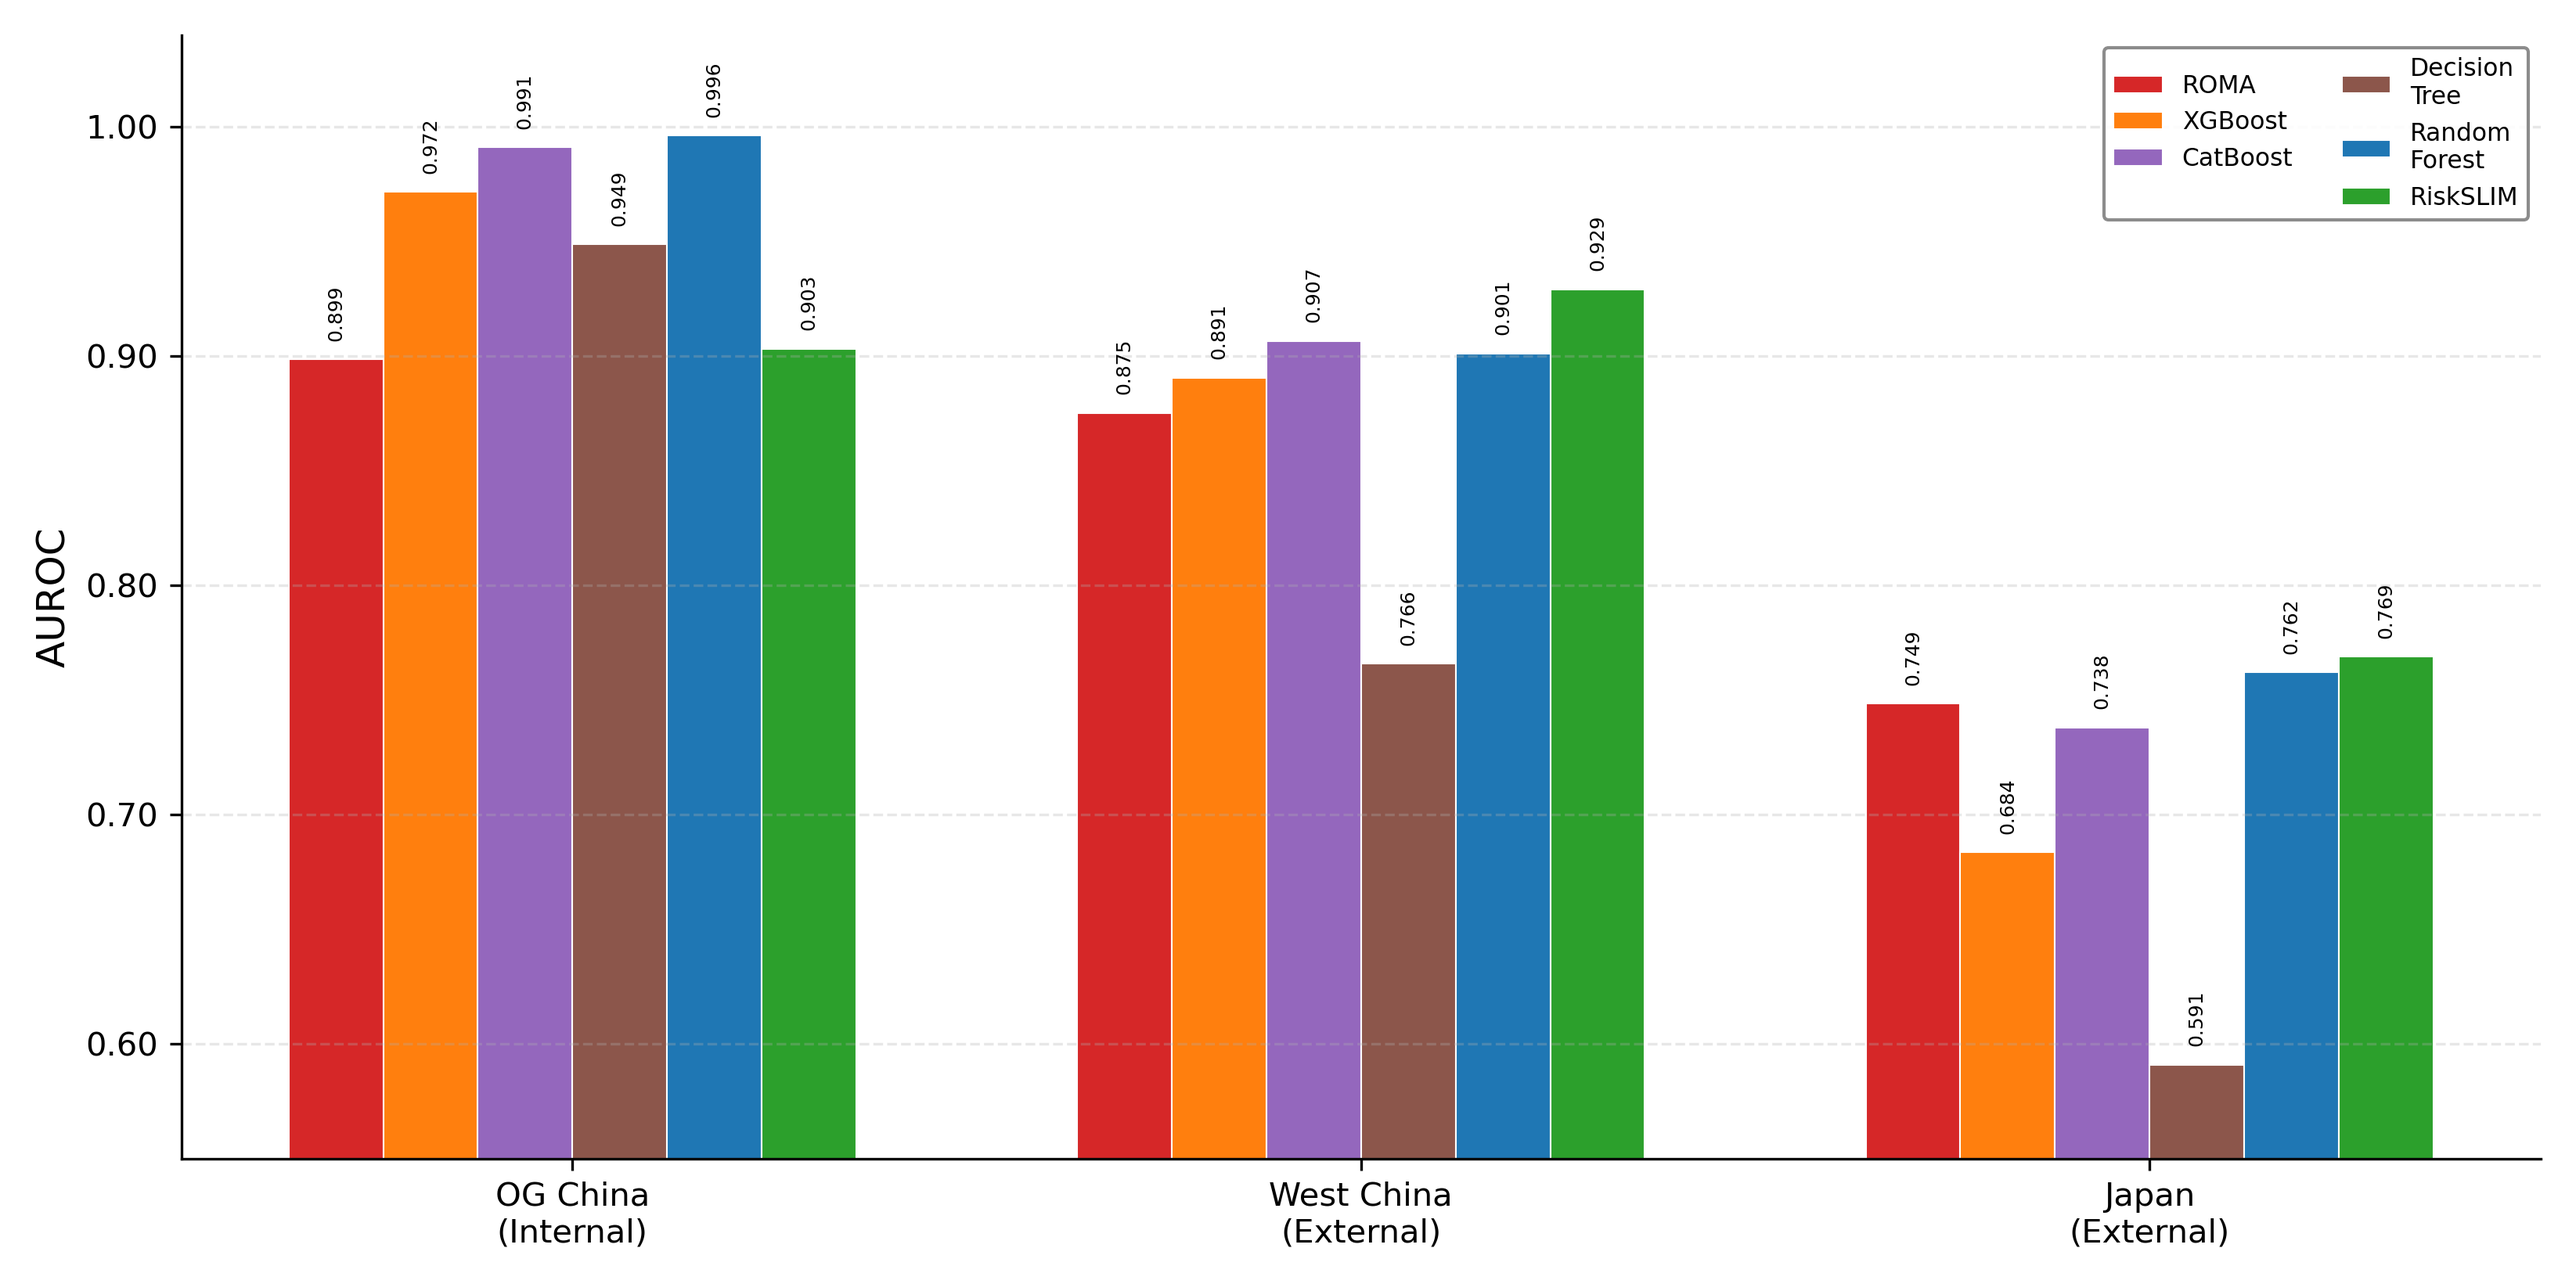
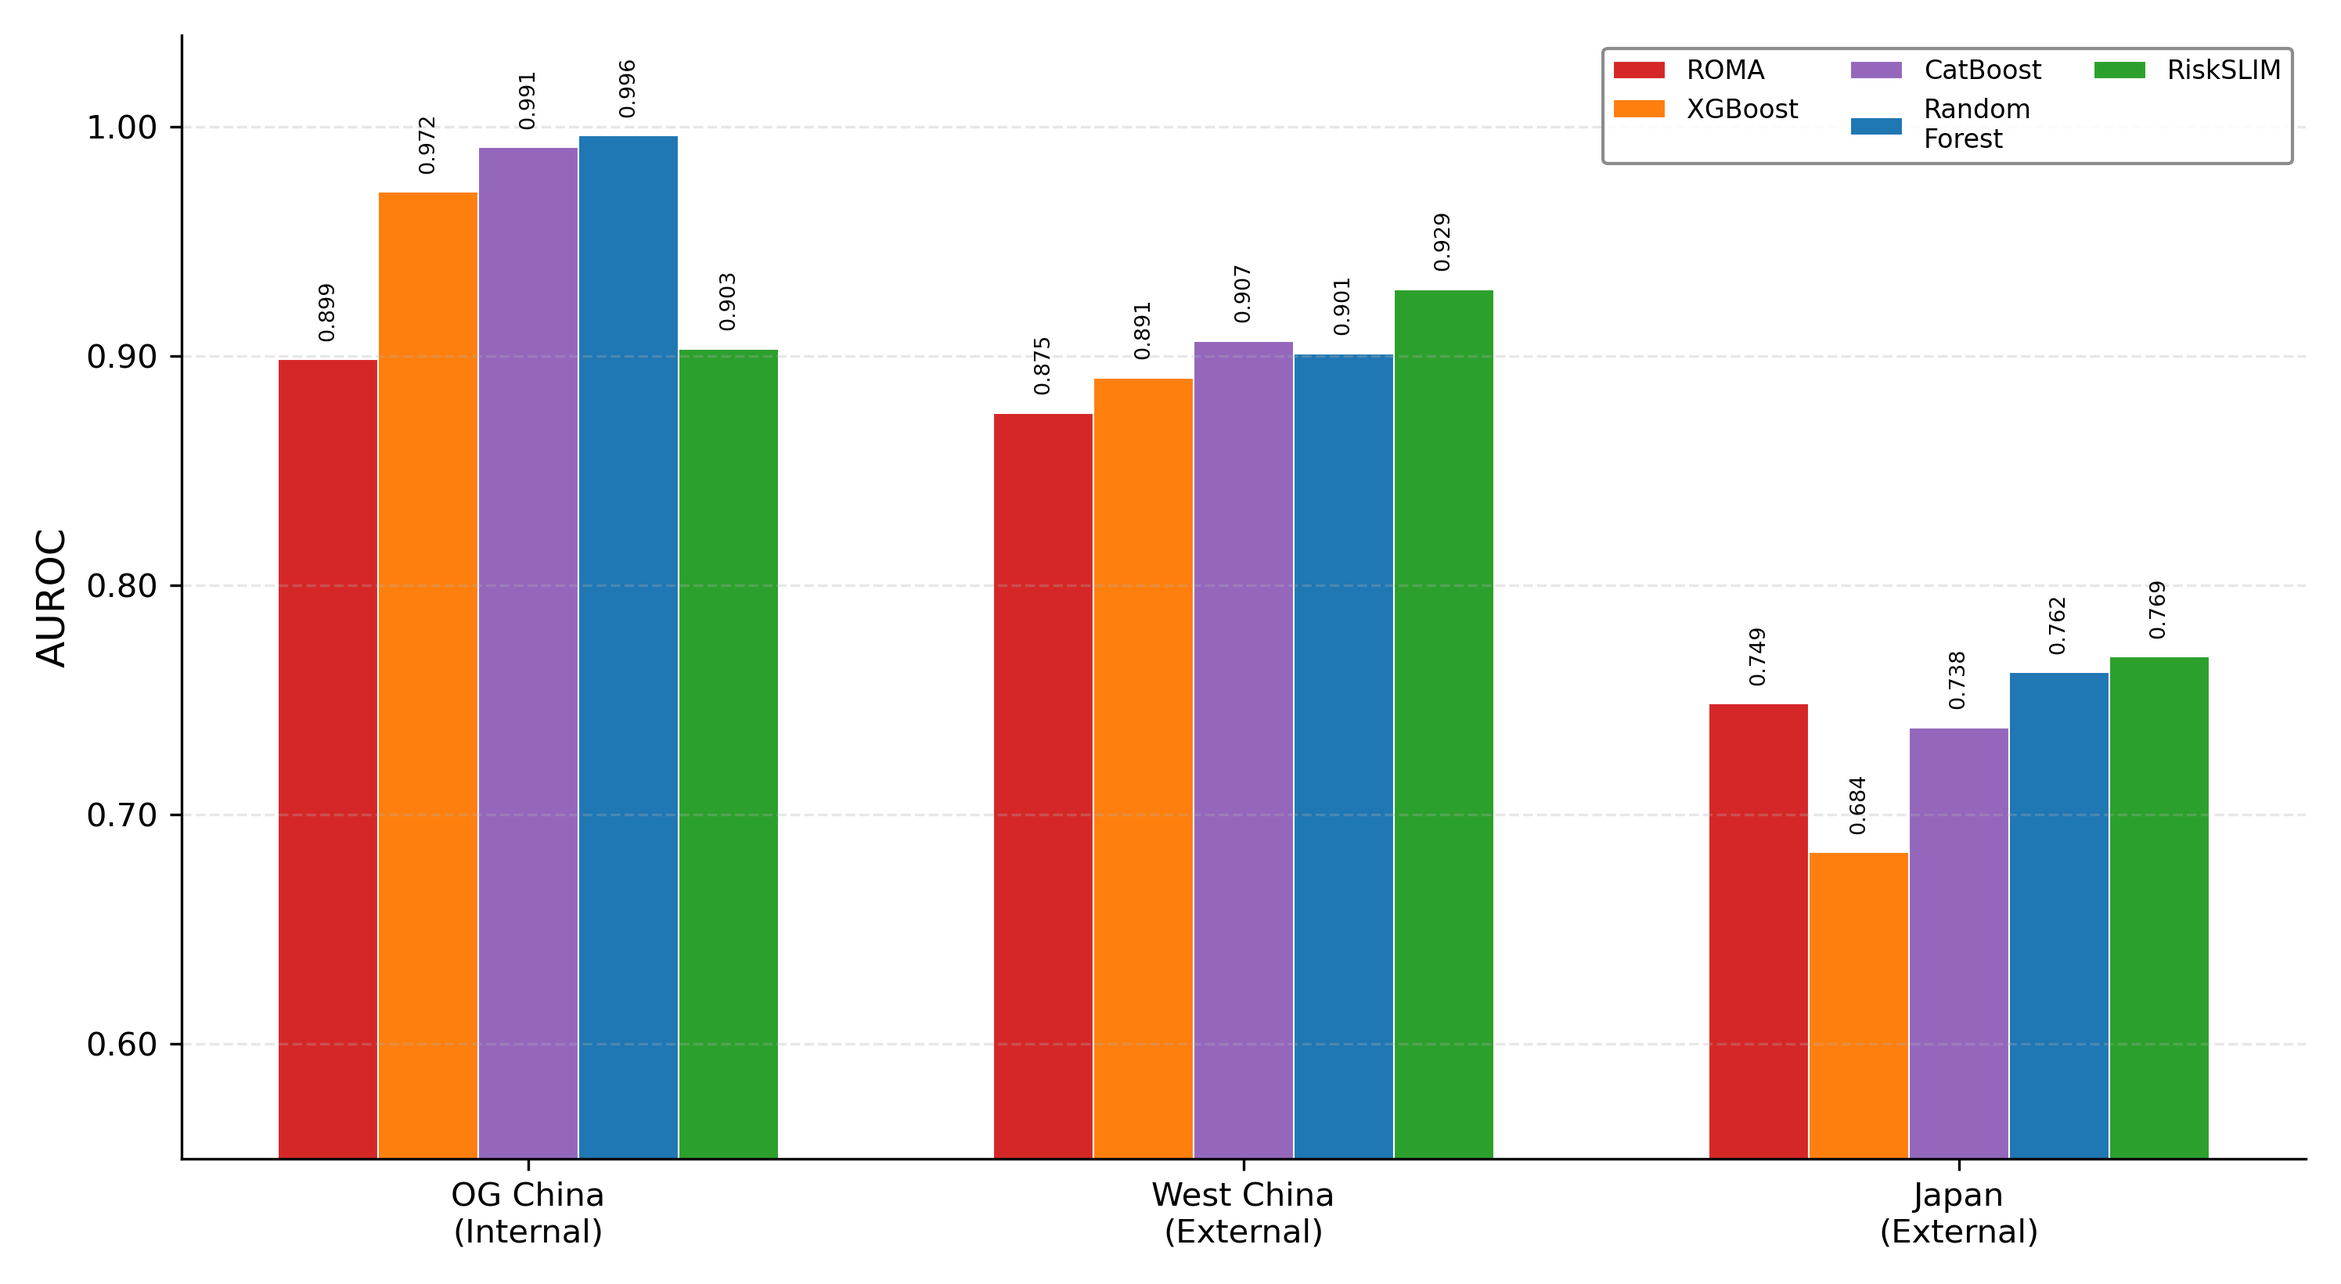
Remove Decision Tree from benchmark; regenerate all 6 figures with 5-model comparison

diff --git a/src/run_monte_carlo_benchmarks.py b/src/run_monte_carlo_benchmarks.py
@@ -7,7 +7,6 @@ import numpy as np
 from sklearn.metrics import roc_auc_score
 from xgboost import XGBClassifier
 from catboost import CatBoostClassifier
-from sklearn.tree import DecisionTreeClassifier
 from sklearn.ensemble import RandomForestClassifier
 from sklearn.linear_model import LogisticRegression
 from sklearn.preprocessing import KBinsDiscretizer, QuantileTransformer, StandardScaler
@@ -140,9 +139,6 @@ fixed_cat = CatBoostClassifier(n_estimators=500, depth=10, learning_rate=0.3,
                                random_seed=42, verbose=0)
 fixed_cat.fit(X_train_norm, y_train)
 
-fixed_dt = DecisionTreeClassifier(max_depth=10, random_state=42)
-fixed_dt.fit(X_train_norm, y_train)
-
 fixed_rf = RandomForestClassifier(n_estimators=500, max_depth=10, random_state=42)
 fixed_rf.fit(X_train_norm, y_train)
 
@@ -180,7 +176,7 @@ for cohort_name, path in cohort_files.items():
         continue
 
     for noise in noise_levels:
-        roma_aucs, xgb_aucs, cat_aucs, dt_aucs, rf_aucs, rslim_aucs = [], [], [], [], [], []
+        roma_aucs, xgb_aucs, cat_aucs, rf_aucs, rslim_aucs = [], [], [], [], []
 
         for _ in range(N_PERTURBATIONS):
             noise_mat = np.random.normal(1.0, noise, (len(X_clean), 2))
@@ -193,21 +189,18 @@ for cohort_name, path in cohort_files.items():
             roma_score = compute_roma(X_noisy)
             xgb_score  = fixed_xgb.predict_proba(X_noisy_norm)[:, 1]
             cat_score  = fixed_cat.predict_proba(X_noisy_norm)[:, 1]
-            dt_score   = fixed_dt.predict_proba(X_noisy_norm)[:, 1]
             rf_score   = fixed_rf.predict_proba(X_noisy_norm)[:, 1]
             rslim_score = fixed_rslim.predict_score(X_noisy)
 
             roma_auc = roc_auc_score(y_eval, roma_score)
             xgb_auc  = roc_auc_score(y_eval, xgb_score)
             cat_auc  = roc_auc_score(y_eval, cat_score)
-            dt_auc   = roc_auc_score(y_eval, dt_score)
             rf_auc   = roc_auc_score(y_eval, rf_score)
             rslim_auc = roc_auc_score(y_eval, rslim_score)
 
             roma_aucs.append(roma_auc if roma_auc >= 0.5 else 1 - roma_auc)
             xgb_aucs.append(xgb_auc if xgb_auc >= 0.5 else 1 - xgb_auc)
             cat_aucs.append(cat_auc if cat_auc >= 0.5 else 1 - cat_auc)
-            dt_aucs.append(dt_auc if dt_auc >= 0.5 else 1 - dt_auc)
             rf_aucs.append(rf_auc if rf_auc >= 0.5 else 1 - rf_auc)
             rslim_aucs.append(rslim_auc if rslim_auc >= 0.5 else 1 - rslim_auc)
 
@@ -217,7 +210,6 @@ for cohort_name, path in cohort_files.items():
             'ROMA Formula': f"{np.mean(roma_aucs):.4f} (±{np.std(roma_aucs):.3f})",
             'XGBoost': f"{np.mean(xgb_aucs):.4f} (±{np.std(xgb_aucs):.3f})",
             'CatBoost': f"{np.mean(cat_aucs):.4f} (±{np.std(cat_aucs):.3f})",
-            'Decision Tree': f"{np.mean(dt_aucs):.4f} (±{np.std(dt_aucs):.3f})",
             'Random Forest': f"{np.mean(rf_aucs):.4f} (±{np.std(rf_aucs):.3f})",
             'Optimized RiskSLIM': f"{np.mean(rslim_aucs):.4f} (±{np.std(rslim_aucs):.3f})"
         })
